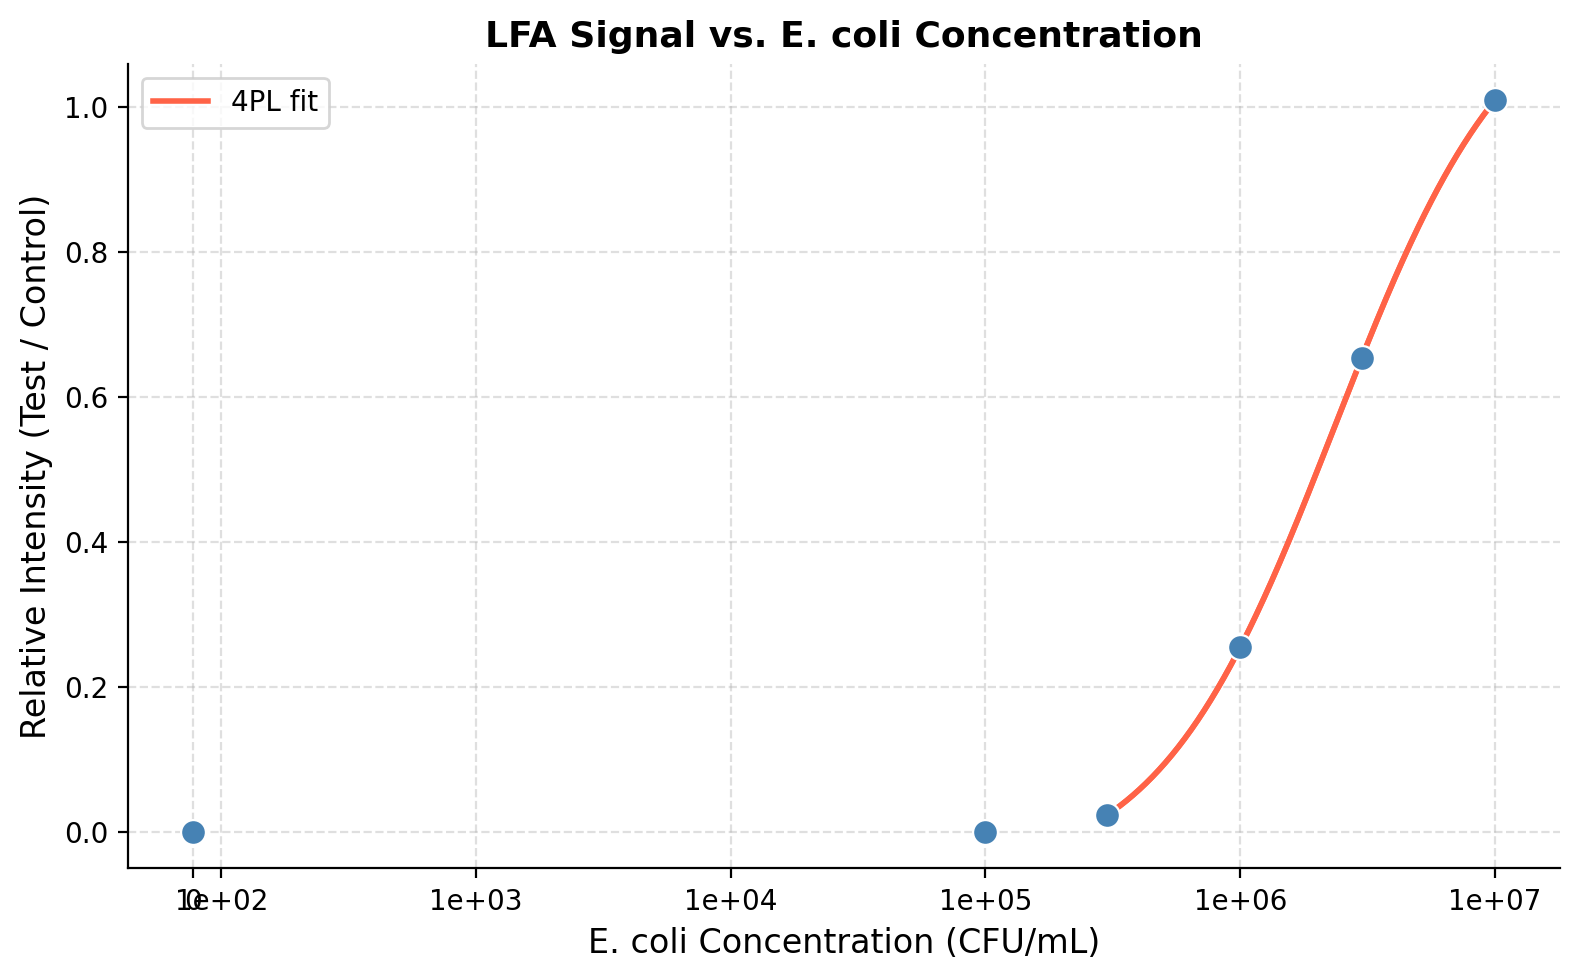
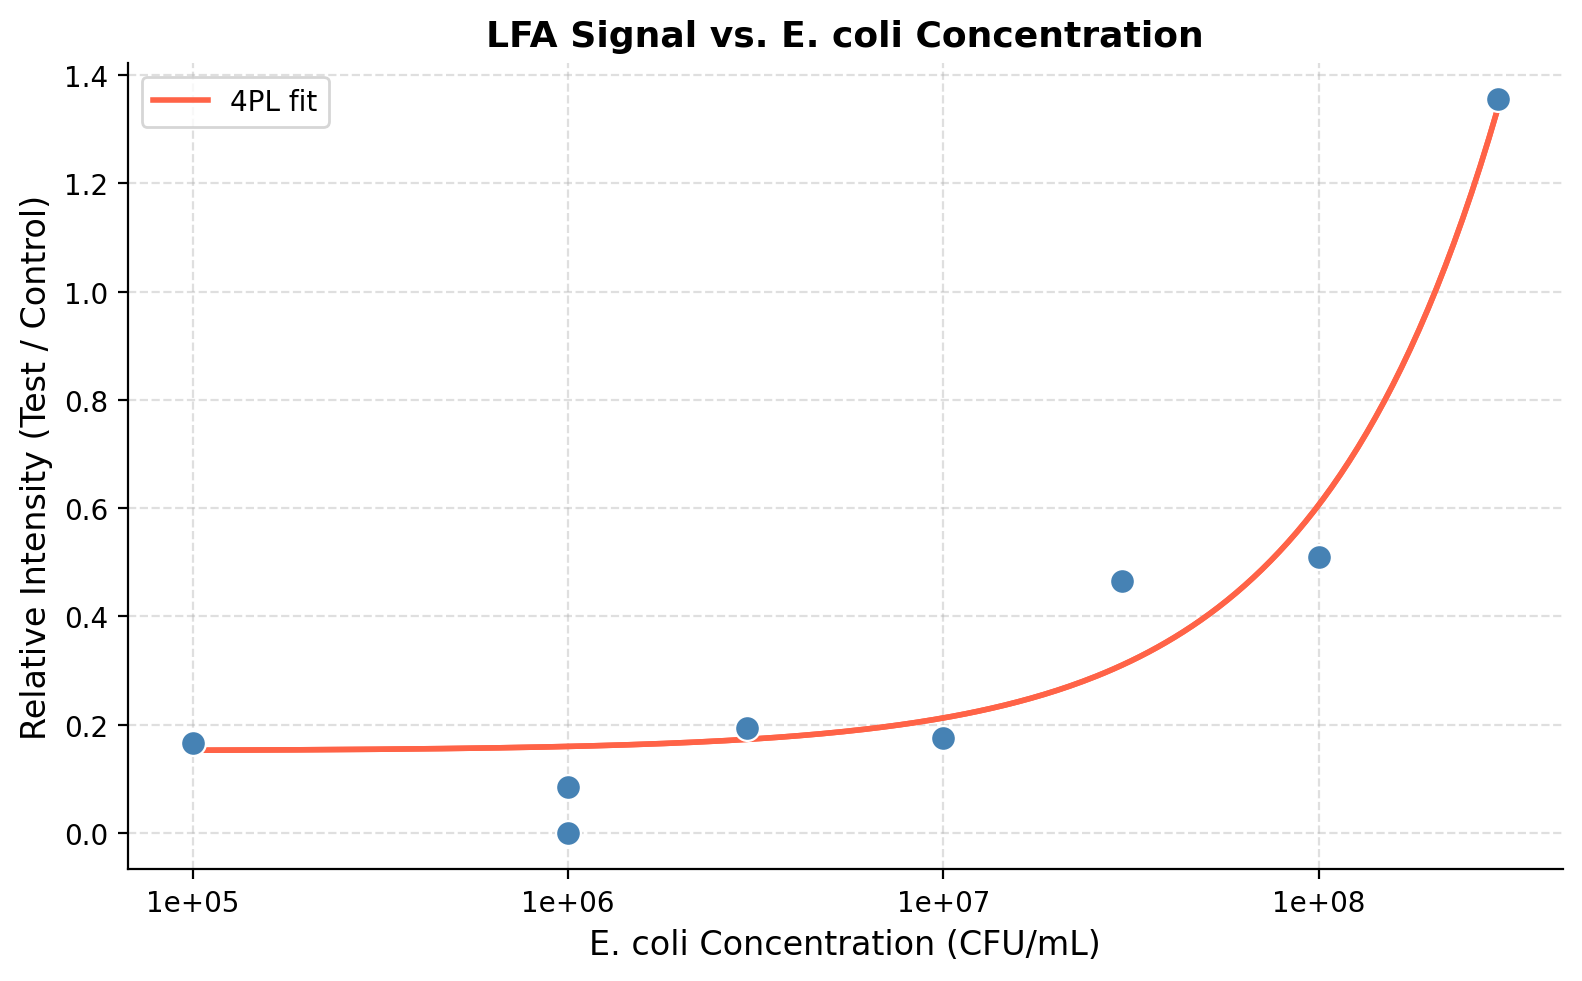
updates

diff --git a/batch_analyze.py b/batch_analyze.py
@@ -15,12 +15,28 @@ def four_pl(x, bottom, top, ec50, hill):
 
 # ── 1. Sample manifest ────────────────────────────────────────────────────────
 SAMPLES = [
-    {"file": "LFAIMAGES/SP_1e5.png",  "conc": 1e5},
-    {"file": "LFAIMAGES/SP_1e6.png",  "conc": 1e6},
-    {"file": "LFAIMAGES/SP_1e7.png",   "conc": 1e7},
-    {"file": "LFAIMAGES/SP_3e5.png",   "conc": 3e5},
-    {"file": "LFAIMAGES/SP_3e6.png",  "conc": 3e6},
-    {"file": "LFAIMAGES/SP_neg.png",  "conc": 0},
+    # {"file": "LFAIMAGES/50_fold_manual_1.jpeg",  "conc": 6e3},
+    # {"file": "LFAIMAGES/50_fold_manual_2.jpeg",  "conc": 6e3},
+    # {"file": "LFAIMAGES/75_fold_manual_1.jpeg",  "conc": 4e3},
+    # {"file": "LFAIMAGES/image2-25folds.jpeg",  "conc": 1.2e4},
+    # {"file": "LFAIMAGES/image3-50fold.jpeg",  "conc": 6e3},
+    # {"file": "LFAIMAGES/image4-10fold.jpeg",  "conc": 3e4},
+    # {"file": "LFAIMAGES/image5-50fold2.jpeg",  "conc": 6e3},
+    # {"file": "LFAIMAGES/image6-10fold2.jpeg",  "conc": 3e4},
+    # {"file": "LFAIMAGES/image7-75fold.jpeg",  "conc": 4e3},
+    # {"file": "LFAIMAGES/image8-25fold2.jpeg",  "conc": 1.2e4},
+    # {"file": "LFAIMAGES/image9-75fold2.jpeg",  "conc": 4e3},
+    
+    
+    {"file": "LFAIMAGES/SP-2-18/1e5_crop.jpg",  "conc": 1e5},
+    {"file": "LFAIMAGES/SP-2-18/1e6_crop.jpg",  "conc": 1e6},
+    {"file": "LFAIMAGES/SP-2-18/3e6_crop.jpg",  "conc": 3e6},
+    {"file": "LFAIMAGES/SP-2-18/1e7_crop.jpg",  "conc": 1e7},
+    {"file": "LFAIMAGES/SP-2-18/3e7_crop.jpg",  "conc": 3e7},
+    {"file": "LFAIMAGES/SP-2-18/1e8_crop.jpg",  "conc": 1e8},
+    {"file": "LFAIMAGES/SP-2-18/3e8_crop_manual.jpg",  "conc": 3e8},
+    {"file": "LFAIMAGES/2-19/1e6_crop_auto.JPG",  "conc": 1e6},
+    # {"file": "LFAIMAGES/2-19/1e9_crop_auto.JPG",  "conc": 1e9}
 ]
 
 # ── 2. Run analysis on every image ────────────────────────────────────────────
@@ -81,6 +97,65 @@ all_ris   = np.array([
 ], dtype=float)
 
 ax.scatter(all_concs, all_ris, s=80, color="steelblue", zorder=3, edgecolors="white", linewidths=0.8)
+
+
+
+
+# HIGHLIGHT_FILES = [
+#     "LFAIMAGES/50_fold_manual_2.jpeg",
+#     "LFAIMAGES/75_fold_manual_1.jpeg",
+#     "LFAIMAGES/image2-25folds.jpeg",
+#     "LFAIMAGES/image3-50fold.jpeg",
+#     "LFAIMAGES/image4-10fold.jpeg",
+#     "LFAIMAGES/image5-50fold2.jpeg",
+#     "LFAIMAGES/image6-10fold2.jpeg",
+#     "LFAIMAGES/image7-75fold.jpeg",
+#     "LFAIMAGES/image8-25fold2.jpeg",
+#     "LFAIMAGES/image9-75fold2.jpeg",
+# ]
+
+# # ── 4. Plot ───────────────────────────────────────────────────────────────────
+# fig, ax = plt.subplots(figsize=(8, 5))
+
+# all_concs = np.array([r["conc"] for r in records], dtype=float)
+# all_ris   = np.array([
+#     r["relative_intensity"] if r["relative_intensity"] is not None else 0.0
+#     for r in records
+# ], dtype=float)
+
+# # Color only the manually selected files
+# point_colors = [
+#     "red" if r["file"] in HIGHLIGHT_FILES else "steelblue"
+#     for r in records
+# ]
+
+# ax.scatter(
+#     all_concs,
+#     all_ris,
+#     s=80,
+#     c=point_colors,
+#     zorder=3,
+#     edgecolors="white",
+#     linewidths=0.8,
+# )
+
+# # Optional: add a legend
+# from matplotlib.lines import Line2D
+# legend_elements = [
+#     Line2D([0], [0], marker='o', linestyle='None', markerfacecolor='red',
+#            markeredgecolor='white', markersize=8, label='Highlighted samples'),
+#     Line2D([0], [0], marker='o', linestyle='None', markerfacecolor='steelblue',
+#            markeredgecolor='white', markersize=8, label='Other samples'),
+# ]
+# ax.legend(handles=legend_elements, fontsize=10)
+
+
+
+
+
+
+
+
 
 # ── Curve fit ────────────────────────────────────────────────────────────────
 fit_records = [r for r in records if r["conc"] > 0 and r["relative_intensity"] is not None]

diff --git a/lfa/analysis.py b/lfa/analysis.py
@@ -1,9 +1,9 @@
 # lfa/analysis.py
 from pathlib import Path
-from . import image_processing_OLD as ip
+from . import image_processing as ip
 
 
-def run_analysis(an, ksize=71, denoise=False, k=5.0, debug_plots=True):
+def run_analysis(an, bg="morph", ksize=71, normalize=False, denoise=False, binarize_mode="rowwise", k=5.0, debug_plots=True):
     """
     Run the full rowwise LFA pipeline.
 
@@ -28,17 +28,18 @@ def run_analysis(an, ksize=71, denoise=False, k=5.0, debug_plots=True):
     ip.preprocess(an)
 
     # 2) Background subtraction
-    ip.subtract_background(an, ksize=ksize, denoise=denoise)
+    ip.subtract_background(an, method="morph", ksize=ksize, normalize=normalize, denoise=denoise)
 
     # 3) Rowwise binarization
-    ip.rowwise_binarize_corrected(
-        an,
-        stat="median",
-        smooth_ksize=51,
-        k=k,
-        min_run=5,
-        expand=2,
-    )
+    if binarize_mode:
+        ip.rowwise_binarize_corrected(
+            an,
+            stat="median",
+            smooth_ksize=51,
+            k=k,
+            min_run=5,
+            expand=2,
+        )
 
     if debug_plots:
         from .visualization import plot_rowwise_threshold_debug

diff --git a/main.py b/main.py
@@ -2,9 +2,12 @@ from lfa import SimpleLFAAnalyzer
 from lfa.analysis import run_analysis
 
 def main():
+    # img_path = 'LFAIMAGES/50_fold_manual_1.jpg'
     # img_path = 'LFAIMAGES/image3-50fold.jpeg'
-    img_path = 'LFAIMAGES/image1neg.jpeg'
+    # img_path = 'LFAIMAGES/SP-2-18/3e6_crop.jpg'
     # img_path = 'LFAIMAGES/image9-75fold2.jpeg'
+    # img_path = 'LFAIMAGES/2-19/1e6_crop_auto.JPG'
+    img_path = 'LFAIMAGES/2-19/1e6_crop_auto.JPG'
     an = SimpleLFAAnalyzer(img_path)
 
 
